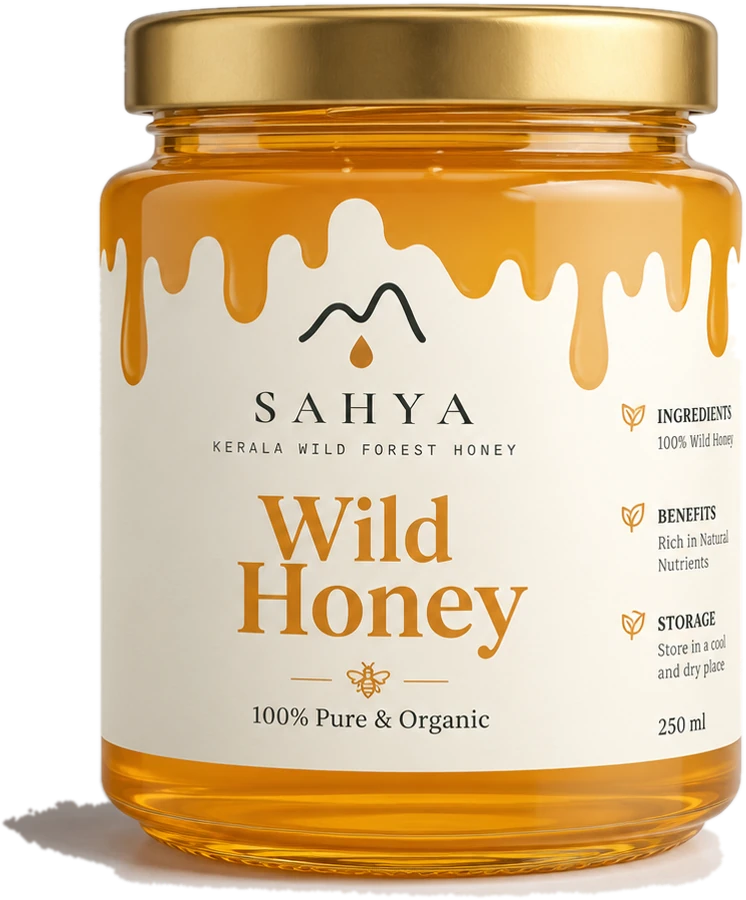
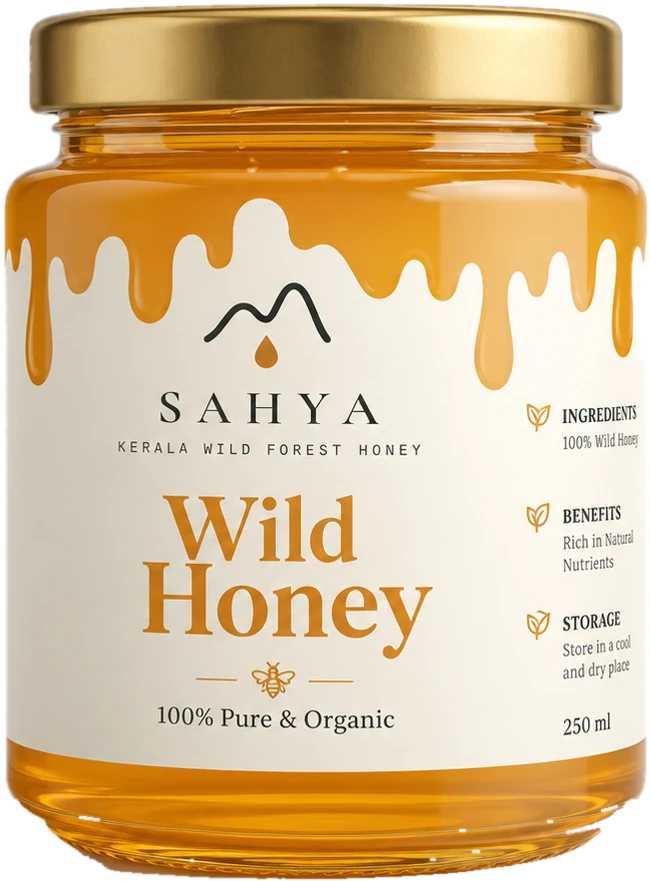
Refine sections below the hero for a more premium look
- Highlights become a ruled trust bar with outline icons
- New editorial statement section in large two-tone type
- Why Sahya uses full-bleed photo cards (swipeable row on phones)
- Featured product: "free from" chips and a caption under the jar
- Forest-to-jar steps as large numbered columns
- Outline icon style on Shop and About cards, eyebrow rule accents
- Large SAHYA wordmark in the footer
- Cleaned jar cutout (removed leftover grey shadow at the base)
Hero section unchanged.

Claude-Session: https://claude.ai/code/session_01FfnzYqsepqCweGvLHpKkTs

diff --git a/index.html b/index.html
@@ -63,8 +63,15 @@
   </div>
 </section>
 
-<section class="highlights" id="highlights" aria-label="Highlights">
-  <div class="container"><div class="highlights__grid"><div class="highlight reveal"><span class="icon-circle"><svg aria-hidden="true"><use href="#i-drop"/></svg></span><span class="highlight__text"><strong>100% Wild Honey</strong><span>One ingredient. Nothing added.</span></span></div><div class="highlight reveal"><span class="icon-circle"><svg aria-hidden="true"><use href="#i-mountain"/></svg></span><span class="highlight__text"><strong>Western Ghats, Kerala</strong><span>From the forests of the Sahya hills.</span></span></div><div class="highlight reveal"><span class="icon-circle"><svg aria-hidden="true"><use href="#i-leaf"/></svg></span><span class="highlight__text"><strong>Pure &amp; Organic</strong><span>Rich in natural nutrients.</span></span></div><div class="highlight reveal"><span class="icon-circle"><svg aria-hidden="true"><use href="#i-jar"/></svg></span><span class="highlight__text"><strong>Sealed in glass</strong><span>250 ml jar with a gold lid.</span></span></div></div></div>
+<section class="trust-wrap" id="highlights" aria-label="Highlights">
+  <div class="container"><div class="trust reveal"><div class="trust__item"><svg aria-hidden="true"><use href="#i-drop"/></svg><div><strong>100% Wild Honey</strong><span>One ingredient. Nothing added.</span></div></div><div class="trust__item"><svg aria-hidden="true"><use href="#i-mountain"/></svg><div><strong>Western Ghats, Kerala</strong><span>From the forests of the Sahya hills.</span></div></div><div class="trust__item"><svg aria-hidden="true"><use href="#i-leaf"/></svg><div><strong>Pure &amp; Organic</strong><span>Rich in natural nutrients.</span></div></div><div class="trust__item"><svg aria-hidden="true"><use href="#i-jar"/></svg><div><strong>Sealed in glass</strong><span>250 ml jar with a gold lid.</span></div></div></div></div>
+</section>
+
+<section class="section statement-wrap">
+  <div class="container">
+    <span class="eyebrow reveal">Sahya Wild Honey</span>
+    <p class="statement reveal">From the wild flowers of the Sahyadri to a single glass jar. <span>Nothing added, nothing taken away. Just honey, the way the forest made it.</span></p>
+  </div>
 </section>
 
 <section class="section section--tight-top">
@@ -73,7 +80,7 @@
       <div class="section-head__title"><span class="eyebrow">Why Sahya</span><h2 class="h2">Honey the way the forest makes it.</h2></div>
       <p class="lead">No shortcuts between the hive and your table. Just wild honey, gathered with care and sealed in glass.</p>
     </div>
-    <div class="card-grid card-grid--3"><article class="card reveal"><span class="card__icon"><svg aria-hidden="true"><use href="#i-leaf"/></svg></span><h3>From wild forest blooms</h3><p>Bees forage freely across the flowering forests of the Western Ghats, so each harvest carries the taste of its season.</p></article><article class="card reveal"><span class="card__icon"><svg aria-hidden="true"><use href="#i-drop"/></svg></span><h3>One ingredient, nothing else</h3><p>The label says 100% wild honey, and that is all that goes in the jar. No sugar syrups, no flavours, no blending.</p></article><article class="card reveal"><span class="card__icon"><svg aria-hidden="true"><use href="#i-sun"/></svg></span><h3>Crystallises naturally</h3><p>Real honey can turn grainy in cool weather. It is a sign of purity, not spoilage. Rest the jar in warm water to bring it back.</p></article></div>
+    <div class="pcards"><article class="pcard reveal"><img src="assets/img/bee-meadow.webp" alt="Honeybee on a purple wildflower below misty hills" width="900" height="900" loading="lazy"><div class="pcard__body"><span class="pcard__num">01</span><h3>From wild forest blooms</h3><p>Bees forage freely across the flowering forests of the Western Ghats, so each harvest carries the taste of its season.</p></div></article><article class="pcard reveal"><img src="assets/img/granite-peak.webp" alt="Granite peak above golden grassland in the Western Ghats" width="900" height="900" loading="lazy"><div class="pcard__body"><span class="pcard__num">02</span><h3>Gathered in the Sahya hills</h3><p>Our honey comes from the wild forests of the Sahyadri, the mountain range that gives Sahya its name.</p></div></article><article class="pcard reveal"><img src="assets/img/jar-on-honey.webp" alt="Sahya Wild Honey jar on a warm honey-coloured background" width="900" height="900" loading="lazy"><div class="pcard__body"><span class="pcard__num">03</span><h3>One ingredient, nothing else</h3><p>The label says 100% wild honey, and that is all that goes in the jar. No sugar syrups, no flavours, no blending.</p></div></article></div>
   </div>
 </section>
 
@@ -81,13 +88,15 @@
   <div class="container feature">
     <div class="product-stage reveal">
       <span class="tag">BESTSELLER</span>
-      <img src="assets/img/sahya-wild-honey-jar.webp" width="748" height="902" alt="Sahya Wild Honey 250 ml glass jar with gold lid" loading="lazy">
+      <img src="assets/img/sahya-wild-honey-jar.webp" width="651" height="881" alt="Sahya Wild Honey 250 ml glass jar with gold lid" loading="lazy">
+      <span class="product-stage__meta">250 ml · Kerala Wild Forest Honey</span>
     </div>
     <div class="feature__info reveal">
       <span class="eyebrow">Our honey</span>
       <h2 class="h2">Sahya Wild Honey</h2>
       <div class="price-row"><span class="price" data-price="250">Price on request</span><span class="price-note">250 ml glass jar</span></div>
       <p class="lead">Golden, aromatic honey from the wild forests of Kerala. Thick, floral and gently warm on the finish. Spoon it, stir it, drizzle it.</p>
+      <ul class="chips" aria-label="Free from"><li><svg aria-hidden="true"><use href="#i-check"/></svg>No added sugar</li><li><svg aria-hidden="true"><use href="#i-check"/></svg>No syrups</li><li><svg aria-hidden="true"><use href="#i-check"/></svg>No preservatives</li></ul>
       <ul class="spec-list">
         <li><svg aria-hidden="true"><use href="#i-leaf"/></svg><div><strong>Ingredients</strong><span>100% Wild Honey</span></div></li>
         <li><svg aria-hidden="true"><use href="#i-leaf"/></svg><div><strong>Benefits</strong><span>Rich in natural nutrients</span></div></li>
@@ -105,7 +114,7 @@
   <svg class="process__ridge" viewBox="0 0 1440 200" preserveAspectRatio="none" aria-hidden="true"><path d="M0 200 L0 140 C120 90 200 60 300 80 C420 104 480 40 600 50 C720 60 780 120 900 110 C1020 100 1100 40 1220 54 C1320 66 1380 110 1440 100 L1440 200Z" fill="#2F5240"/></svg>
   <div class="container" style="position:relative">
     <div class="section-head reveal"><span class="eyebrow eyebrow--light">From forest to jar</span><h2 class="h2">A short journey, done with care.</h2></div>
-    <ol class="steps"><li class="step reveal"><span class="step__num">1</span><div><h3>Forest bloom</h3><p>Bees forage across the wild flowers of the Western Ghats.</p></div></li><li class="step reveal"><span class="step__num">2</span><div><h3>Harvest</h3><p>Honey is collected from forest hives in season.</p></div></li><li class="step reveal"><span class="step__num">3</span><div><h3>Strain</h3><p>Gently strained to remove wax and forest debris.</p></div></li><li class="step reveal"><span class="step__num">4</span><div><h3>Seal</h3><p>Packed in glass and sealed under a gold lid.</p></div></li></ol>
+    <ol class="steps"><li class="step reveal"><span class="step__num">01</span><div><h3>Forest bloom</h3><p>Bees forage across the wild flowers of the Western Ghats.</p></div></li><li class="step reveal"><span class="step__num">02</span><div><h3>Harvest</h3><p>Honey is collected from forest hives in season.</p></div></li><li class="step reveal"><span class="step__num">03</span><div><h3>Strain</h3><p>Gently strained to remove wax and forest debris.</p></div></li><li class="step reveal"><span class="step__num">04</span><div><h3>Seal</h3><p>Packed in glass and sealed under a gold lid.</p></div></li></ol>
   </div>
 </section>
 
@@ -168,6 +177,7 @@
         <a href="https://instagram.com/" rel="noopener" target="_blank">Instagram</a>
       </div>
     </div>
+    <div class="footer__wordmark" aria-hidden="true">SAHYA</div>
     <div class="footer__bottom">
       <span>© <span data-year>2026</span> Sahya. All rights reserved.</span>
       <span>FSSAI Lic. No. XXXXXXXXXXXXXX</span>

diff --git a/assets/css/style.css b/assets/css/style.css
@@ -78,12 +78,13 @@ p { margin: 0; }
 .section--tight-top { padding-top: 0; }
 
 .eyebrow {
-  display: inline-block;
+  display: inline-flex; align-items: center; gap: 12px;
   font-size: 13px; font-weight: 600; letter-spacing: .22em; text-transform: uppercase;
   color: var(--honey-deep);
 }
+.eyebrow::before { content: ""; width: 24px; height: 1.5px; background: currentColor; opacity: .7; }
 .eyebrow--light { color: #F4C25B; }
-.h2 { font-size: clamp(34px, 4.4vw, 52px); }
+.h2 { font-size: clamp(34px, 4.4vw, 56px); letter-spacing: -0.035em; }
 .lead { font-size: 17px; line-height: 1.65; color: var(--muted); }
 .section-head { display: flex; flex-direction: column; gap: 14px; margin-bottom: 32px; }
 @media (min-width: 900px) {
@@ -300,19 +301,19 @@ p { margin: 0; }
   border-radius: var(--radius); background: var(--paper); border: 1px solid var(--line);
   transition: transform .3s var(--ease), box-shadow .3s var(--ease);
 }
-.card:hover { transform: translateY(-3px); box-shadow: var(--shadow); }
+.card:hover { transform: translateY(-3px); box-shadow: 0 18px 40px rgba(60, 40, 10, .08); border-color: #DCCFB3; }
 .card h3 { font-size: 24px; margin-top: 8px; }
 .card p { font-size: 16px; line-height: 1.65; color: var(--muted); }
 .card__icon {
-  display: grid; place-items: center; width: 56px; height: 56px; border-radius: 16px;
-  background: var(--forest); color: #F4C25B;
+  display: grid; place-items: center; width: 52px; height: 52px; border-radius: 50%;
+  border: 1px solid var(--line); background: var(--cream); color: var(--honey-deep);
 }
-.card__icon svg { width: 26px; height: 26px; }
-.card__icon--tint { background: var(--honey-tint); color: var(--honey-deep); }
+.card__icon svg { width: 24px; height: 24px; }
+.card__icon--tint { background: var(--cream); color: var(--honey-deep); }
 .card--sm { padding: 24px; gap: 12px; border-radius: 20px; }
 .card--sm h3 { font-size: 20px; margin-top: 0; }
 .card--sm p { font-size: 15px; }
-.card--sm .card__icon { width: 48px; height: 48px; border-radius: 14px; }
+.card--sm .card__icon { width: 46px; height: 46px; }
 @media (min-width: 900px) { .card { padding: 36px; } .card h3 { font-size: 26px; } .card--sm { padding: 24px; } .card--sm h3 { font-size: 20px; } }
 
 /* ---------- 8. Featured product ---------- */
@@ -543,6 +544,114 @@ html:not(.no-js) .cta__drips { display: none; }
 }
 .toast.is-visible { opacity: 1; transform: translate(-50%, 0); }
 .toast svg { width: 18px; height: 18px; color: #F4C25B; }
+
+
+/* ---------- 18. Refined sections ---------- */
+/* Trust bar */
+.trust-wrap { padding: 40px 0 0; }
+.trust {
+  display: grid; grid-template-columns: repeat(2, minmax(0, 1fr));
+  border-top: 1px solid var(--line); border-bottom: 1px solid var(--line);
+}
+.trust__item { display: flex; flex-direction: column; gap: 12px; padding: 24px 16px 24px 0; }
+.trust__item:nth-child(2n) { padding-left: 16px; border-left: 1px solid var(--line); }
+.trust__item:nth-child(n+3) { border-top: 1px solid var(--line); }
+.trust__item > svg { width: 22px; height: 22px; color: var(--honey-deep); flex: none; }
+.trust__item strong { display: block; font-size: 15px; font-weight: 600; letter-spacing: -0.01em; }
+.trust__item span { display: block; font-size: 14px; color: var(--muted); line-height: 1.45; margin-top: 2px; }
+@media (min-width: 900px) {
+  .trust-wrap { padding-top: 56px; }
+  .trust { grid-template-columns: repeat(4, minmax(0, 1fr)); }
+  .trust__item { flex-direction: row; align-items: flex-start; gap: 16px; padding: 32px 28px; }
+  .trust__item:first-child { padding-left: 0; }
+  .trust__item + .trust__item { border-left: 1px solid var(--line); }
+  .trust__item:nth-child(n+3) { border-top: 0; }
+  .trust__item > svg { margin-top: 2px; }
+}
+
+/* Editorial statement */
+.statement-wrap .container { display: flex; flex-direction: column; align-items: center; text-align: center; gap: 28px; }
+.statement {
+  max-width: 1040px;
+  font-family: var(--font-head); font-weight: 500;
+  font-size: clamp(28px, 3.7vw, 50px); line-height: 1.16; letter-spacing: -0.035em;
+  color: var(--ink);
+}
+.statement span { color: #8C8474; }
+
+/* Photo cards */
+.pcards {
+  display: grid; grid-auto-flow: column; grid-auto-columns: 82%; gap: 12px;
+  overflow-x: auto; scroll-snap-type: x mandatory; scrollbar-width: none;
+  margin: 0 calc(var(--gutter) * -1); padding: 0 var(--gutter) 4px; scroll-padding: 0 var(--gutter);
+}
+.pcards::-webkit-scrollbar { display: none; }
+.pcards .pcard { scroll-snap-align: start; }
+@media (min-width: 900px) {
+  .pcards { grid-auto-flow: row; grid-auto-columns: auto; grid-template-columns: repeat(3, minmax(0, 1fr)); gap: 24px; overflow: visible; margin: 0; padding: 0; }
+}
+.pcard {
+  position: relative; overflow: hidden; isolation: isolate;
+  aspect-ratio: 4 / 5; border-radius: var(--radius); background: #2A2A20; color: #fff;
+}
+.pcard img {
+  position: absolute; inset: 0; z-index: -2; width: 100%; height: 100%; object-fit: cover;
+  transition: transform 1.4s var(--ease);
+}
+.pcard::after {
+  content: ""; position: absolute; inset: 0; z-index: -1;
+  background: linear-gradient(180deg, rgba(18, 16, 10, 0) 35%, rgba(18, 16, 10, .55) 62%, rgba(18, 16, 10, .88) 100%);
+}
+.pcard:hover img { transform: scale(1.05); }
+.pcard__body { position: absolute; left: 0; right: 0; bottom: 0; padding: 26px; display: flex; flex-direction: column; gap: 10px; }
+.pcard__num {
+  align-self: flex-start; padding: 5px 11px; border-radius: 999px;
+  border: 1px solid rgba(255, 255, 255, .45); font-size: 12px; font-weight: 600; letter-spacing: .12em;
+  -webkit-backdrop-filter: blur(6px); backdrop-filter: blur(6px);
+}
+.pcard h3 { font-size: 26px; color: #fff; }
+.pcard p { font-size: 15px; line-height: 1.6; color: rgba(255, 255, 255, .86); }
+@media (min-width: 900px) { .pcard__body { padding: 32px; } .pcard h3 { font-size: 28px; } }
+
+/* Featured product refinements */
+.product-stage { box-shadow: inset 0 0 0 1px rgba(154, 90, 6, .08); }
+.product-stage__meta {
+  position: absolute; left: 0; right: 0; bottom: 22px; text-align: center;
+  font-size: 12px; font-weight: 600; letter-spacing: .18em; text-transform: uppercase; color: rgba(90, 55, 8, .7);
+}
+.chips { display: flex; flex-wrap: wrap; gap: 8px; list-style: none; margin: 0; padding: 0; }
+.chips li {
+  display: inline-flex; align-items: center; gap: 6px; padding: 7px 12px; border-radius: 999px;
+  background: var(--paper); border: 1px solid var(--line); font-size: 13px; font-weight: 500;
+}
+.chips svg { width: 14px; height: 14px; color: var(--forest); }
+
+/* Process: large numbered columns */
+.steps { gap: 0; }
+.step {
+  flex-direction: column; gap: 14px; padding: 28px 0;
+  border-top: 1px solid rgba(255, 253, 248, .16);
+}
+.step__num {
+  width: auto; height: auto; display: block; border-radius: 0; background: none;
+  font-family: var(--font-head); font-size: 52px; font-weight: 500; line-height: 1; letter-spacing: -0.04em;
+  color: #F4C25B;
+}
+@media (min-width: 900px) {
+  .steps { gap: 40px; }
+  .steps::before { display: none; }
+  .step { padding: 32px 0 0; }
+  .step__num { font-size: 64px; margin-bottom: 12px; }
+}
+
+/* Footer wordmark */
+.footer__wordmark {
+  margin-top: 48px; text-align: center; user-select: none;
+  font-family: var(--font-head); font-weight: 600; line-height: .8;
+  font-size: clamp(64px, 17vw, 250px); letter-spacing: .14em; padding-left: .14em;
+  color: rgba(231, 225, 211, .055);
+}
+.footer__wordmark + .footer__bottom { margin-top: 28px; }
 
 /* ---------- 17. Motion ---------- */
 @keyframes kenburns { from { transform: scale(1); } to { transform: scale(1.06); } }

diff --git a/shop.html b/shop.html
@@ -46,7 +46,7 @@
       <div class="gallery">
         <div class="gallery__main">
           <span class="tag">BESTSELLER</span>
-          <img class="is-jar" src="assets/img/sahya-wild-honey-jar.webp" width="748" height="902" alt="Sahya Wild Honey 250 ml jar, front view">
+          <img class="is-jar" src="assets/img/sahya-wild-honey-jar.webp" width="651" height="881" alt="Sahya Wild Honey 250 ml jar, front view">
         </div>
         <div class="thumbs"><button class="thumb thumb--jar" type="button" aria-pressed="true" aria-label="Show image: Sahya Wild Honey 250 ml jar, front view" data-kind="jar" data-src="assets/img/sahya-wild-honey-jar.webp" data-alt="Sahya Wild Honey 250 ml jar, front view"><img src="assets/img/sahya-wild-honey-jar.webp" alt="" loading="lazy"></button><button class="thumb" type="button" aria-pressed="false" aria-label="Show image: Close-up of the Sahya Wild Honey label" data-kind="photo" data-src="assets/img/jar-label.webp" data-alt="Close-up of the Sahya Wild Honey label"><img src="assets/img/jar-label.webp" alt="" loading="lazy"></button><button class="thumb" type="button" aria-pressed="false" aria-label="Show image: Honeybee on a purple wildflower in the Western Ghats" data-kind="photo" data-src="assets/img/bee-wildflower.webp" data-alt="Honeybee on a purple wildflower in the Western Ghats"><img src="assets/img/bee-wildflower.webp" alt="" loading="lazy"></button><button class="thumb" type="button" aria-pressed="false" aria-label="Show image: Honeybee in a wildflower meadow below misty hills" data-kind="photo" data-src="assets/img/bee-meadow.webp" data-alt="Honeybee in a wildflower meadow below misty hills"><img src="assets/img/bee-meadow.webp" alt="" loading="lazy"></button></div>
       </div>
@@ -130,6 +130,7 @@
         <a href="https://instagram.com/" rel="noopener" target="_blank">Instagram</a>
       </div>
     </div>
+    <div class="footer__wordmark" aria-hidden="true">SAHYA</div>
     <div class="footer__bottom">
       <span>© <span data-year>2026</span> Sahya. All rights reserved.</span>
       <span>FSSAI Lic. No. XXXXXXXXXXXXXX</span>

diff --git a/about.html b/about.html
@@ -138,6 +138,7 @@
         <a href="https://instagram.com/" rel="noopener" target="_blank">Instagram</a>
       </div>
     </div>
+    <div class="footer__wordmark" aria-hidden="true">SAHYA</div>
     <div class="footer__bottom">
       <span>© <span data-year>2026</span> Sahya. All rights reserved.</span>
       <span>FSSAI Lic. No. XXXXXXXXXXXXXX</span>
